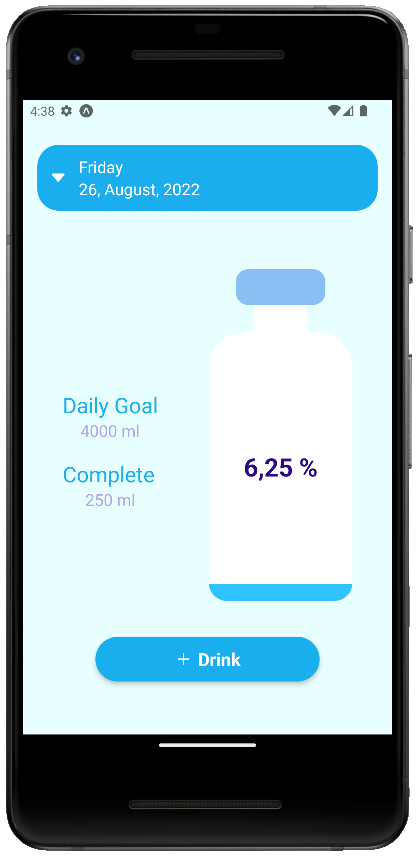
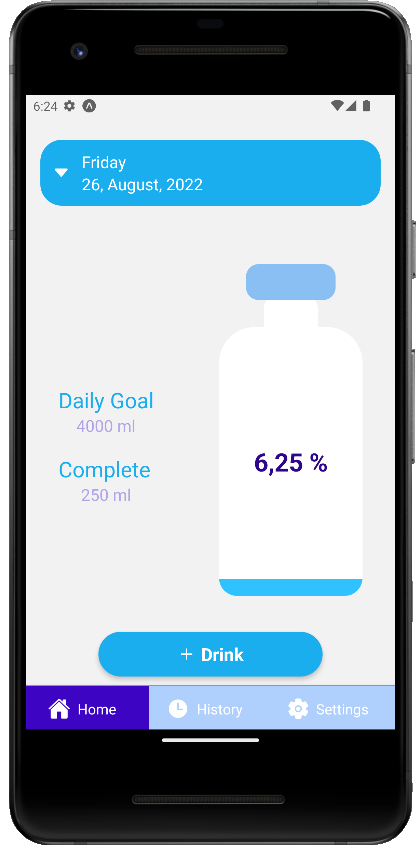
home screen image updated add tab navigation

diff --git a/navigation/Navigation.js b/navigation/Navigation.js
@@ -1,0 +1,105 @@
+import { NavigationContainer } from "@react-navigation/native";
+import { createNativeStackNavigator } from "@react-navigation/native-stack";
+import { createBottomTabNavigator } from "@react-navigation/bottom-tabs";
+
+import { Ionicons } from "@expo/vector-icons";
+import { GlobalStyles } from "../constants/styles";
+import Home from "../screens/Home/Home";
+import Button from "../components/Buttons/Button";
+import History from "../screens/History/History";
+import Settings from "../screens/Settings/Settings";
+
+const Stack = createNativeStackNavigator();
+
+const BottomTab = createBottomTabNavigator();
+
+function HomeOverview() {
+  return (
+    <BottomTab.Navigator
+      screenOptions={() => ({
+        headerStyle: { backgroundColor: GlobalStyles.colors.primary400 },
+        headerTintColor: "white",
+        tabBarStyle: { backgroundColor: GlobalStyles.colors.primary500 },
+        tabBarActiveTintColor: GlobalStyles.colors.white,
+        headerShown: false,
+      })}
+    >
+      <BottomTab.Screen
+        name="Home"
+        component={Home}
+        options={{
+          title: "Home",
+          topBarLabel: "Home",
+          tabBarLabelPosition: "beside-icon",
+          tabBarLabelStyle: { fontSize: 16 },
+          tabBarInactiveBackgroundColor: GlobalStyles.colors.primary100,
+          tabBarInactiveTintColor: GlobalStyles.colors.white,
+          tabBarIcon: ({ color, size }) => (
+            <Ionicons name="home" size={size} color={color} />
+          ),
+        }}
+      />
+
+      <BottomTab.Screen
+        name="history"
+        component={History}
+        options={{
+          title: "History",
+          topBarLabel: "History",
+          tabBarLabelPosition: "beside-icon",
+          tabBarLabelStyle: { fontSize: 16 },
+          tabBarInactiveBackgroundColor: GlobalStyles.colors.primary100,
+          tabBarInactiveTintColor: GlobalStyles.colors.white,
+          tabBarIcon: ({ color, size }) => (
+            <Ionicons name="time" size={size} color={color} />
+          ),
+        }}
+      />
+
+      <BottomTab.Screen
+        name="settings"
+        component={Settings}
+        options={{
+          title: "Settings",
+          topBarLabel: "Settings",
+          tabBarLabelPosition: "beside-icon",
+          tabBarLabelStyle: { fontSize: 16 },
+          tabBarInactiveBackgroundColor: GlobalStyles.colors.primary100,
+          tabBarInactiveTintColor: GlobalStyles.colors.white,
+          tabBarIcon: ({ color, size }) => (
+            <Ionicons name="settings" size={size} color={color} />
+          ),
+        }}
+      />
+    </BottomTab.Navigator>
+  );
+}
+
+const Navigation = () => {
+  return (
+    <NavigationContainer>
+      <Stack.Navigator
+        screenOptions={{
+          // headerStyle: { backgroundColor: GlobalStyles.colors.primary400 },
+          // headerTintColor: "#ffffff",
+          headerShown: false,
+        }}
+      >
+        <Stack.Screen
+          name="HomeOverview"
+          component={HomeOverview}
+          options={{ headerShown: false }}
+        />
+        {/* <Stack.Screen
+      name="ManageExpense"
+      component={ManageExpense}
+      options={{
+        presentation: "modal",
+      }}
+    /> */}
+      </Stack.Navigator>
+    </NavigationContainer>
+  );
+};
+
+export default Navigation;

diff --git a/components/Buttons/Button.js b/components/Buttons/Button.js
@@ -3,7 +3,10 @@ import { Pressable, StyleSheet, Text } from "react-native";
 import { Ionicons } from "@expo/vector-icons";
 const Button = ({ onPress, icon, color, size, children, buttonStyles }) => {
   return (
-    <Pressable onPress={onPress} style={buttonStyles}>
+    <Pressable
+      onPress={onPress}
+      style={({ pressed }) => [buttonStyles, pressed && styles.pressed]}
+    >
       <Ionicons name={icon} size={size} color={color} />
       {children}
     </Pressable>
@@ -12,4 +15,8 @@ const Button = ({ onPress, icon, color, size, children, buttonStyles }) => {
 
 export default Button;
 
-const styles = StyleSheet.create({});
+const styles = StyleSheet.create({
+  pressed: {
+    opacity: 0.75,
+  },
+});

diff --git a/App.js b/App.js
@@ -1,22 +1,11 @@
 import { StatusBar } from "expo-status-bar";
-import { ScrollView, StyleSheet, Text, View } from "react-native";
-import Home from "./screens/Home/Home";
+import Navigation from "./navigation/Navigation";
 
 export default function App() {
   return (
     <>
       <StatusBar translucent style="auto" />
-      <ScrollView style={styles.container}>
-        <Home />
-      </ScrollView>
+      <Navigation />
     </>
   );
 }
-
-const styles = StyleSheet.create({
-  container: {
-    flex: 1,
-    paddingTop: 50,
-    paddingHorizontal: 16,
-  },
-});

diff --git a/screens/Home/Home.js b/screens/Home/Home.js
@@ -1,11 +1,14 @@
+import { ScrollView } from "react-native";
 import Calendar from "../../components/Calendar/Calendar";
 import ManageDrinks from "../../components/ManageDrinks/ManageDrinks";
 
 const Home = () => {
   return (
     <>
-      <Calendar />
-      <ManageDrinks />
+      <ScrollView>
+        <Calendar />
+        <ManageDrinks />
+      </ScrollView>
     </>
   );
 };

diff --git a/components/Calendar/Calendar.js b/components/Calendar/Calendar.js
@@ -62,6 +62,9 @@ const styles = StyleSheet.create({
   container: {
     borderRadius: 24,
     backgroundColor: GlobalStyles.colors.primary400,
+    flex: 1,
+    marginHorizontal: 16,
+    marginTop: 50,
   },
   calendarContainer: {
     flexDirection: "row",

diff --git a/screens/Settings/Settings.js b/screens/Settings/Settings.js
@@ -1,0 +1,11 @@
+import { Text, View } from "react-native";
+
+const Settings = () => {
+  return (
+    <View>
+      <Text>Settings</Text>
+    </View>
+  );
+};
+
+export default Settings;

diff --git a/screens/History/History.js b/screens/History/History.js
@@ -1,0 +1,11 @@
+import { Text, View } from "react-native";
+
+const History = () => {
+  return (
+    <View>
+      <Text>History</Text>
+    </View>
+  );
+};
+
+export default History;
